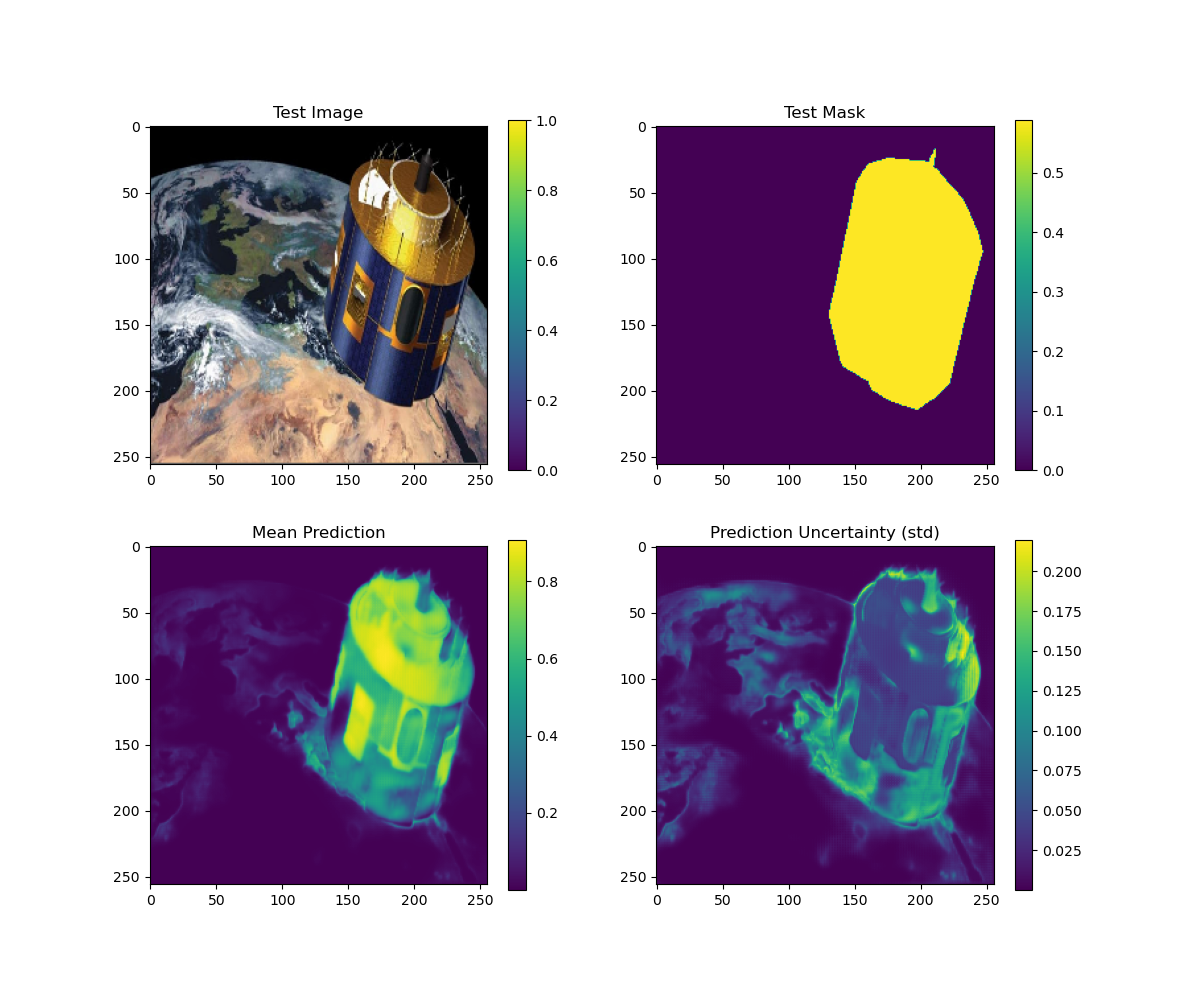
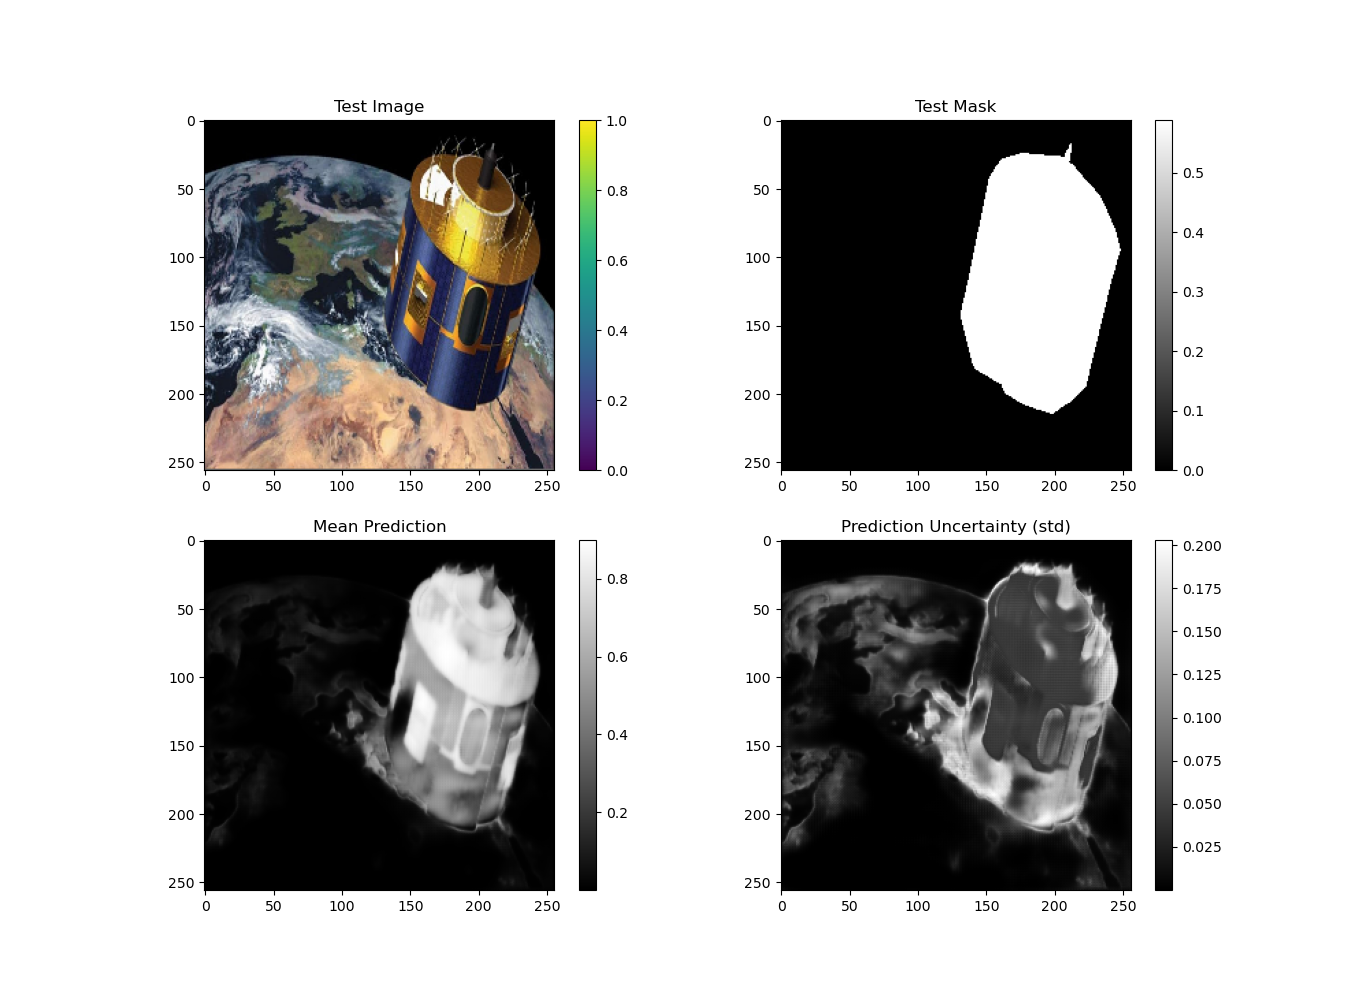
added all images MC prediction test but averaging is not a good strategy
this is because the averaging makes the maximum values for mean and std only go to 0.5

diff --git a/uncertainity_quantification/MC_dropout.py b/uncertainity_quantification/MC_dropout.py
@@ -1,6 +1,44 @@
 import numpy as np
 from tqdm import tqdm
 import matplotlib.pyplot as plt
+from utils.logger_prep import get_logger
+
+logger = get_logger(__name__)
+
+def run_mc_dropout_on_all_images(model, images, num_samples=10):
+    """
+    Run MC dropout prediction on all test images multiple times and average the results.
+
+    Args:
+    model: The loaded TensorFlow model with dropout.
+    images: A batch of images (num_images, height, width, channels).
+    num_samples: Number of Monte Carlo samples to generate per image.
+
+    Returns:
+    Tuple of mean predictions and standard deviations for all images.
+    """
+    all_mean_predictions = []
+    all_std_deviations = []
+
+    # Loop through each image
+    for image in tqdm(images, desc=f'MC Dropout Inference for all test images ({num_samples} times each)'):
+        image = np.expand_dims(image, axis=0)  # Add batch dimension
+        mc_samples = [model(image, training=True) for _ in range(num_samples)]
+        mc_samples = np.array(mc_samples)
+
+        
+        # Calculate mean and standard deviation
+        mean_prediction = np.mean(mc_samples, axis=0)
+        std_deviation = np.std(mc_samples, axis=0)
+        
+        all_mean_predictions.append(mean_prediction)
+        all_std_deviations.append(std_deviation)
+    
+    # Average over all images
+    mean_of_means = np.mean(all_mean_predictions, axis=0)
+    mean_of_stds = np.mean(all_std_deviations, axis=0)
+
+    return mean_of_means, mean_of_stds
 
 def mc_dropout_predictions(model, input_image, num_samples=50):
     """
@@ -14,36 +52,37 @@ def mc_dropout_predictions(model, input_image, num_samples=50):
     Returns:
     numpy.array: Array of predictions from each forward pass.
     """
-    predictions = [model(input_image, training=True) for _ in tqdm(range(num_samples), desc='MC Dropout Inference')]
+    input_image = np.expand_dims(input_image, axis=0)
+    predictions = [model(input_image, training=True) for _ in tqdm(range(num_samples), desc='MC Dropout Inference for a single test image')]
     predictions = np.array(predictions)
     return predictions
 
 
 def visualize_mean_std(test_image, test_mask, mean_prediction, std_deviation):
-    """ Visualize the test image, mask and model predictions. """
+    """ Visualize the test i mage, mask and model predictions. """
     plt.figure(figsize=(10, 10))
     
     # Display the actual test image
     plt.subplot(2, 2, 1)
-    plt.imshow(test_image[0, :, :, :])
+    plt.imshow(test_image[:, :, :])
     plt.colorbar()
     plt.title('Test Image')
     
     # Display the actual mask
     plt.subplot(2, 2, 2)
-    plt.imshow(test_mask[0, :, :, 0], cmap='viridis')
+    plt.imshow(test_mask[:, :, 0], cmap='gray')
     plt.colorbar()
     plt.title('Test Mask')
     
     # Display the mean prediction
     plt.subplot(2, 2, 3)
-    plt.imshow(mean_prediction[0, :, :, 0], cmap='viridis')
+    plt.imshow(mean_prediction[0, :, :, 0], cmap='gray')
     plt.colorbar()
     plt.title('Mean Prediction')
     
     # Display the prediction uncertainty
     plt.subplot(2, 2, 4)
-    plt.imshow(std_deviation[0, :, :, 0], cmap='viridis')
+    plt.imshow(std_deviation[0, :, :, 0], cmap='gray')
     plt.colorbar()
     plt.title('Prediction Uncertainty (std)')
     
@@ -60,31 +99,80 @@ def visualize_confidence_intervals(test_image, mean_prediction, std_deviation, c
     lower_bound = mean_prediction - std_deviation * 1.96
     upper_bound = mean_prediction + std_deviation * 1.96
     
-    # Display the actual test image
-    plt.figure(figsize=(15, 15))
-    plt.subplot(2, 2, 1)
-    plt.imshow(test_image[0, :, :, :])
-    plt.colorbar()
-    plt.title('Test Image')
-    
-    # Display the mean prediction
-    plt.subplot(2, 2, 2)
-    plt.imshow(mean_prediction[0, :, :, 0], cmap='viridis')
-    plt.colorbar()
-    plt.title('Mean Prediction')
-    
     # Display the lower bound of the confidence interval
-    plt.subplot(2, 2, 3)
-    plt.imshow(lower_bound[0, :, :, 0], cmap='viridis')
+    plt.figure(figsize=(10, 5))
+    plt.subplot(1, 2, 1)
+    plt.imshow(lower_bound[0, :, :, 0], cmap='gray')
     plt.colorbar()
     plt.title(f'{confidence_level * 100}% Confidence Lower Bound')
     
     # Display the upper bound of the confidence interval
-    plt.subplot(2, 2, 4)
-    plt.imshow(upper_bound[0, :, :, 0], cmap='viridis')
+    plt.subplot(1, 2, 2)
+    plt.imshow(upper_bound[0, :, :, 0], cmap='gray')
     plt.colorbar()
     plt.title(f'{confidence_level * 100}% Confidence Upper Bound')
     
     plt.show()
 
 
+def plot_correlation_analysis(mean_prediction, std_deviation):
+    """
+    Plot correlation between mean predictions and their standard deviations.
+    
+    Args:
+    mean_prediction (numpy.ndarray): Mean predictions (height, width).
+    std_deviation (numpy.ndarray): Standard deviations of predictions (height, width).
+    """
+    flat_mean = mean_prediction.flatten()
+    flat_std = std_deviation.flatten()
+    
+    plt.figure(figsize=(6, 6))
+    plt.scatter(flat_mean, flat_std, alpha=0.1)
+    plt.xlabel('Mean Prediction')
+    plt.ylabel('Standard Deviation')
+    plt.title('Correlation between Mean Prediction and Standard Deviation')
+    plt.grid(True)
+    plt.show()
+
+
+def get_uncertainty_avgs(mean_prediction, std_deviation):
+    flat_mean = mean_prediction.flatten()
+    flat_std = std_deviation.flatten()
+    
+    # Segment the data based on mean prediction ranges
+    low_uncertainty = flat_std[flat_mean < 0.2]
+    medium_uncertainty = flat_std[(flat_mean >= 0.2) & (flat_mean < 0.8)]
+    high_uncertainty = flat_std[flat_mean >= 0.8]
+
+    # Calculate and print statistics for each segment
+    print("Low Uncertainty Average:", np.mean(low_uncertainty))
+    print("Medium Uncertainty Average:", np.mean(medium_uncertainty))
+    print("High Uncertainty Average:", np.mean(high_uncertainty))
+
+    logger.info(f'Low Uncertainty Average: {np.mean(low_uncertainty)}')
+    logger.info(f'Medium Uncertainty Average: {np.mean(medium_uncertainty)}')
+    logger.info(f'High Uncertainty Average: {np.mean(high_uncertainty)}')
+
+def plot_hexbin(mean_prediction, std_deviation):
+    flat_mean = mean_prediction.flatten()
+    flat_std = std_deviation.flatten()
+    plt.figure(figsize=(8, 6))
+    hb = plt.hexbin(flat_mean, flat_std, gridsize=50, cmap='Blues', mincnt=1)
+    cb = plt.colorbar(hb, label='Count')
+    plt.xlabel('Mean Prediction')
+    plt.ylabel('Standard Deviation')
+    plt.title('Hexbin Plot of Mean Prediction vs. Standard Deviation')
+    plt.grid(True)
+    plt.show()
+
+def plot_2d_histogram(mean_prediction, std_deviation):
+    flat_mean = mean_prediction.flatten()
+    flat_std = std_deviation.flatten()
+    plt.figure(figsize=(8, 6))
+    plt.hist2d(flat_mean, flat_std, bins=50, cmap='Blues')
+    cb = plt.colorbar(label='Count')
+    plt.xlabel('Mean Prediction')
+    plt.ylabel('Standard Deviation')
+    plt.title('2D Histogram of Mean Prediction vs. Standard Deviation')
+    plt.grid(True)
+    plt.show()

diff --git a/main.py b/main.py
@@ -6,7 +6,7 @@ from utils.directories_check import check_dirs, check_prepped_data
 from utils.custom_funcs import dice_loss, dice_coefficient, combined_loss
 from utils.logger_prep import get_logger
 
-from uncertainity_quantification.MC_dropout import mc_dropout_predictions, visualize_mean_std, visualize_confidence_intervals
+from uncertainity_quantification.MC_dropout import mc_dropout_predictions, visualize_mean_std, visualize_confidence_intervals, plot_correlation_analysis, get_uncertainty_avgs, run_mc_dropout_on_all_images
 
 if __name__ == '__main__':
 
@@ -26,18 +26,22 @@ if __name__ == '__main__':
     test_images = tf.convert_to_tensor(np.load(PREPPED_TEST_IMAGES))
     test_masks = tf.convert_to_tensor(np.load(PREPPED_TEST_MASKS))
 
-    #* Uncertainty quantification using MC dropout
-    test_image = np.expand_dims(test_images[UQ_TEST_EXAMPLE_INDEX], axis=0)
-    test_mask = np.expand_dims(test_masks[UQ_TEST_EXAMPLE_INDEX], axis=0)
-    mc_predictions = mc_dropout_predictions(model, test_image, num_samples=NUM_SAMPLES_MC_DROPOUT_PREDICTION)
 
-    # Calculate mean and standard deviation
+    # #* Uncertainty quantification using MC dropout for a single test image
+    mc_predictions = mc_dropout_predictions(model, test_images[0], num_samples=NUM_SAMPLES_MC_DROPOUT_PREDICTION)
     mean_prediction = np.mean(mc_predictions, axis=0)
     std_deviation = np.std(mc_predictions, axis=0)
-    visualize_mean_std(test_image, test_mask, mean_prediction, std_deviation)
 
-    # Visualize the confidence intervals
-    visualize_confidence_intervals(test_image, mean_prediction, std_deviation, confidence_level=0.95)
+    visualize_mean_std(test_images[0], test_masks[0], mean_prediction, std_deviation)
+    visualize_confidence_intervals(test_images[0], mean_prediction, std_deviation, confidence_level=0.95)
+    plot_correlation_analysis(mean_prediction, std_deviation)
+    get_uncertainty_avgs(mean_prediction, std_deviation)
+
+    #* Uncertainty quantification using MC dropout for all test images
+    mean_of_means, mean_of_stds = run_mc_dropout_on_all_images(model, test_images, num_samples=NUM_SAMPLES_MC_DROPOUT_PREDICTION)
+    plot_correlation_analysis(mean_of_means, mean_of_stds)
+    get_uncertainty_avgs(mean_of_means, mean_of_stds)
+
 
 
     logger.info('Uncertainty quantification experiment complete')

diff --git a/configs.py b/configs.py
@@ -17,4 +17,4 @@ Y_DIMENSION = 256
 
 # Uncertainty quantification test example index
 UQ_TEST_EXAMPLE_INDEX = 0
-NUM_SAMPLES_MC_DROPOUT_PREDICTION = 100
+NUM_SAMPLES_MC_DROPOUT_PREDICTION = 10
